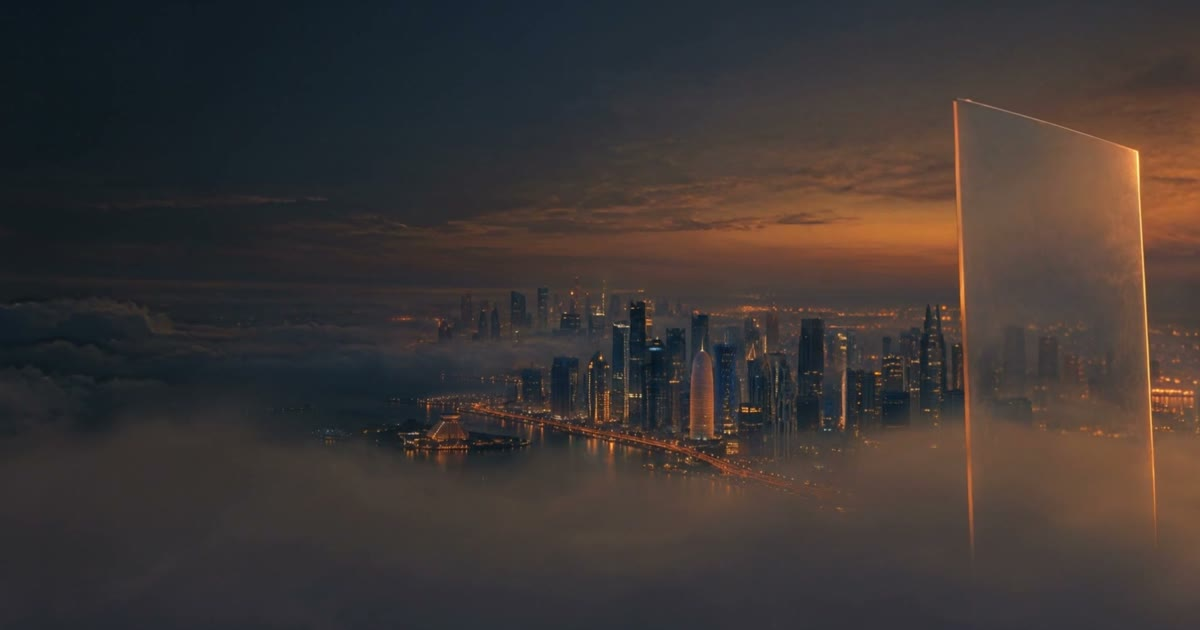
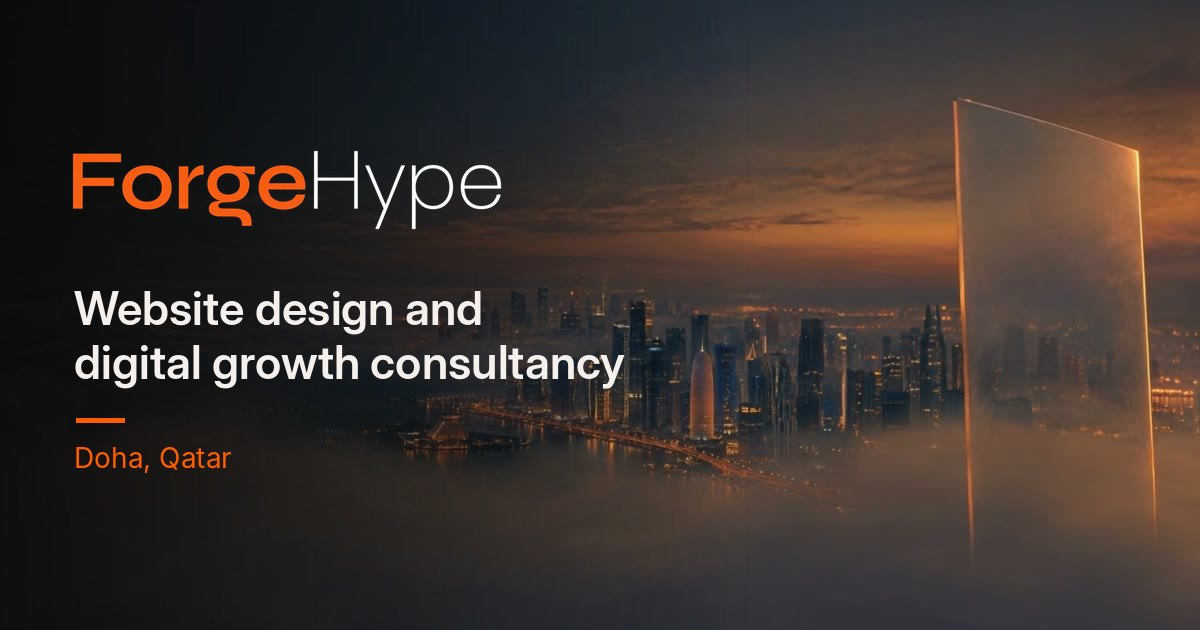
Pre-launch fixes: branded share image, shorter homepage title, 404 home link, lighter images
Claude-Session: https://claude.ai/code/session_01AbE5ecc2Cn8vJ6Anzxiuye

diff --git a/forgehype-qa/index.html b/forgehype-qa/index.html
@@ -4,7 +4,7 @@
 <meta name="robots" content="noindex, nofollow">
 <meta charset="utf-8">
 <meta name="viewport" content="width=device-width, initial-scale=1, viewport-fit=cover">
-<title>ForgeHype | Website design and digital growth consultancy in Doha, Qatar</title>
+<title>Website design &amp; digital growth consultancy, Doha | ForgeHype</title>
 <link rel="canonical" href="https://forgehype.qa/">
 <meta name="description" content="ForgeHype is a website design and digital growth consultancy in Doha, Qatar. Websites, search and AI visibility, branding and growth advice. Book a free audit.">
 <meta name="theme-color" content="#0b0908">

diff --git a/forgehype-qa/404.html b/forgehype-qa/404.html
@@ -24,7 +24,7 @@ a{display:inline-flex;align-items:center;padding:.95rem 1.5rem;border-radius:999
 <h1>Lost in <span>the haze.</span></h1>
 <p>That page is not here. The site is, and so are we.</p>
 <a href="/" id="home">Back to ForgeHype</a>
-<script>var p=location.pathname.split("/")[1];if(p==="forgehype.qa")document.getElementById("home").href="/forgehype.qa/";</script>
+<script>if(/github\.io$/.test(location.hostname)){var p=location.pathname.split("/")[1];if(p)document.getElementById("home").href="/"+p+"/";}</script>
 </main>
 </body>
 </html>
